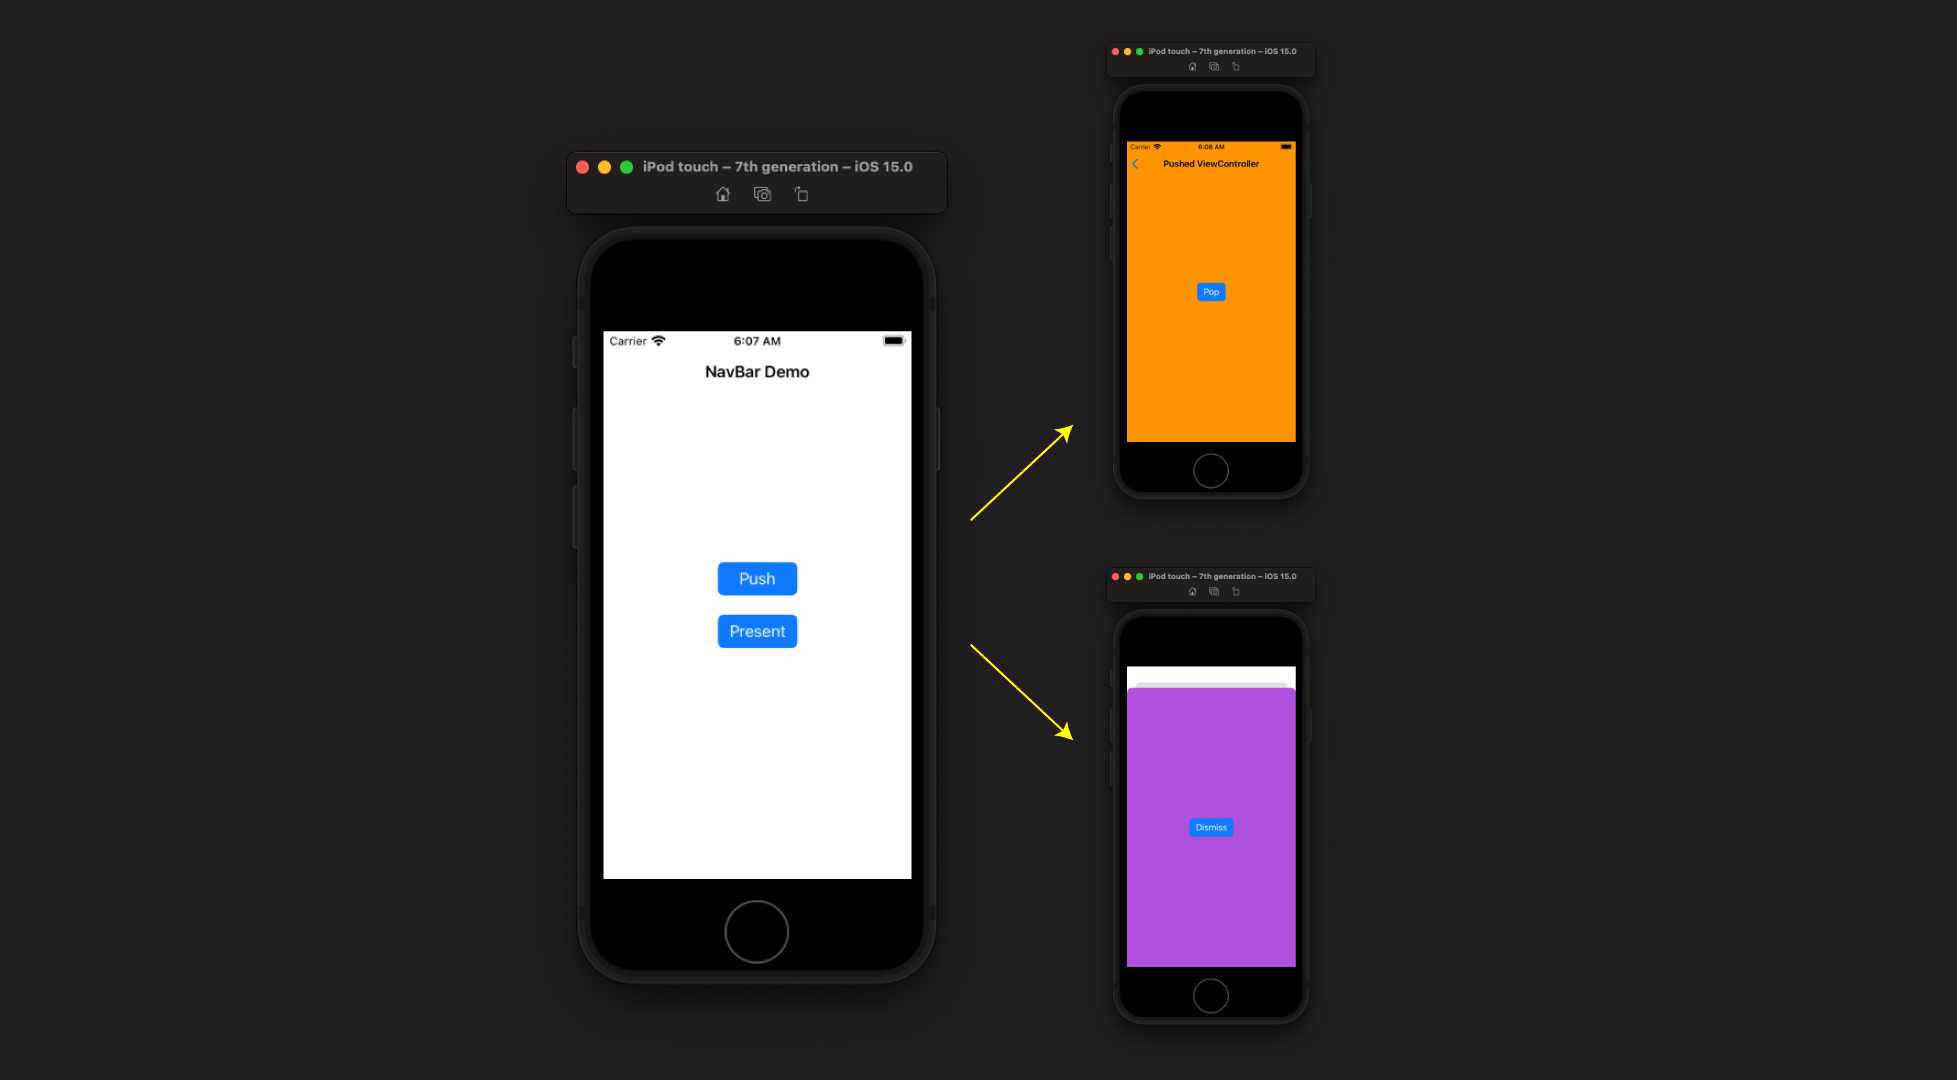
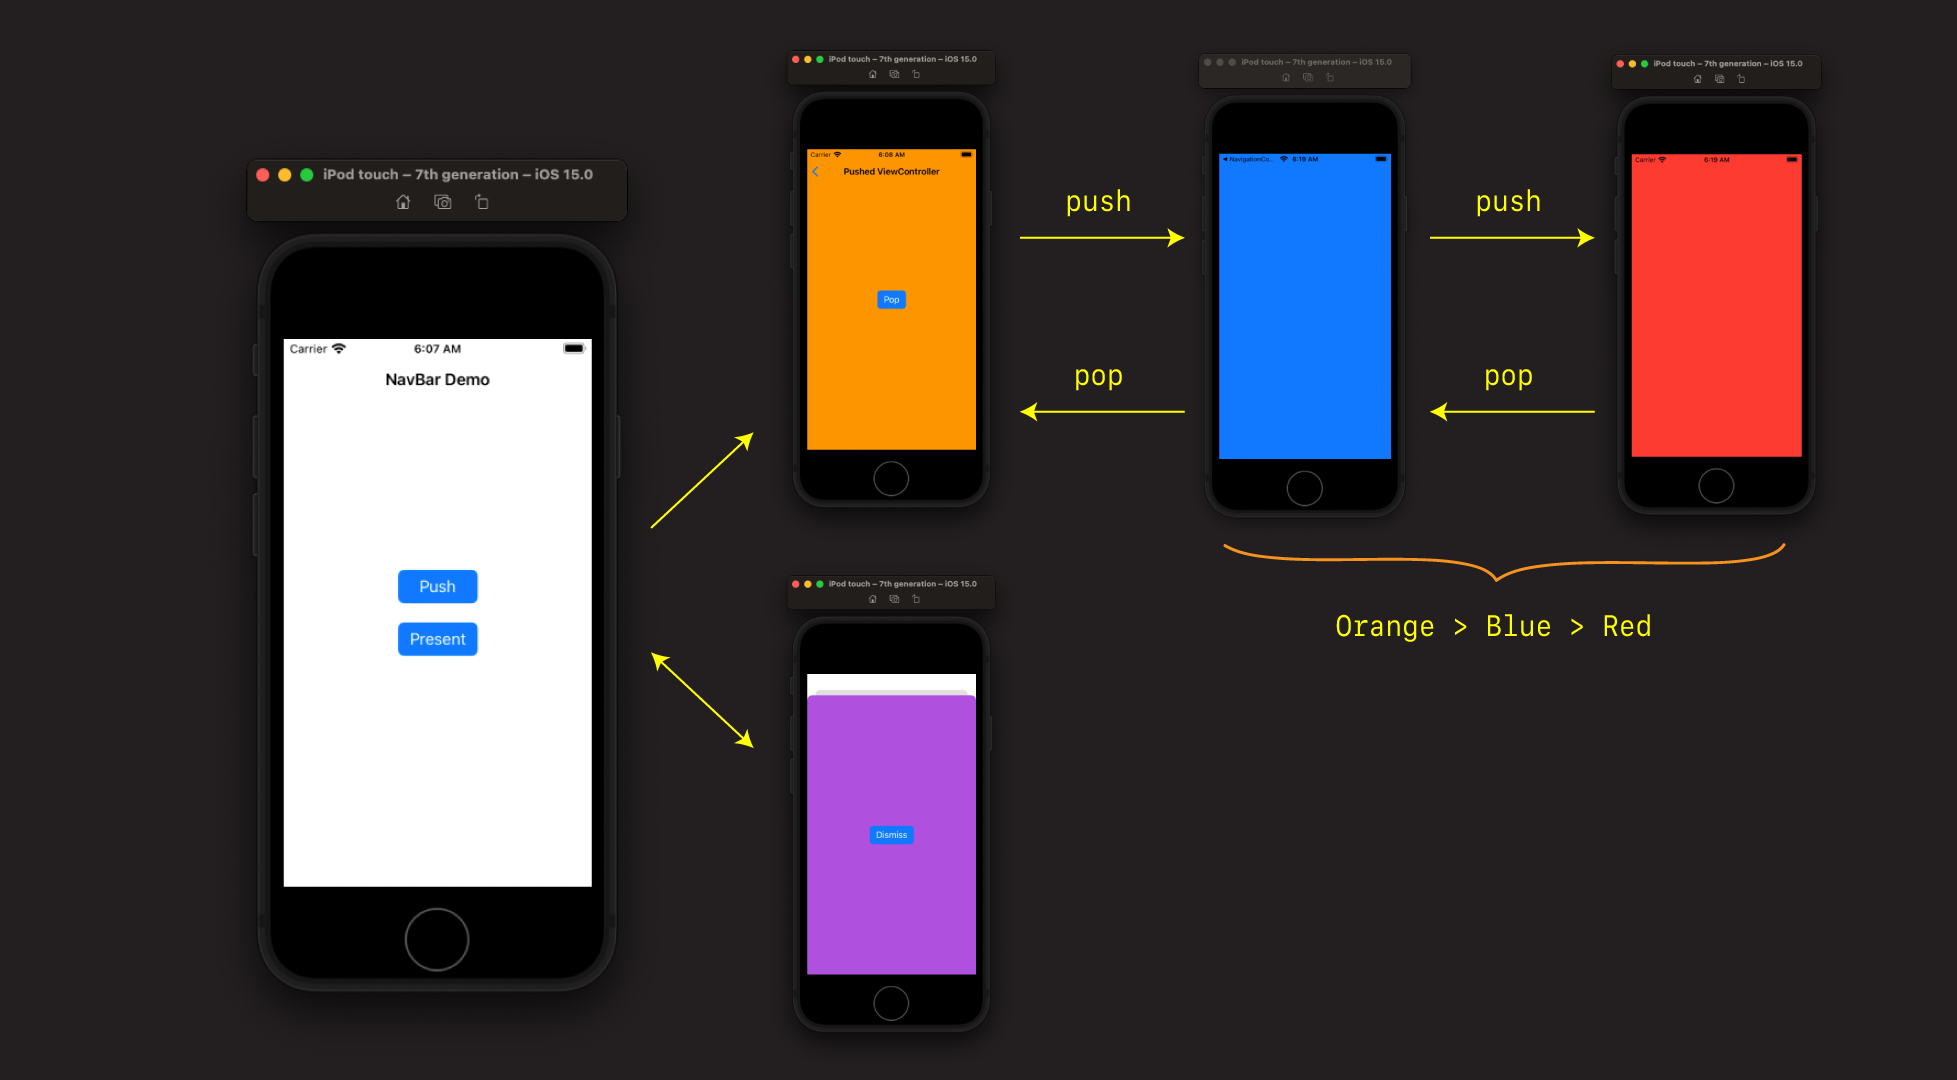
cleanup

diff --git a/Bankey/4-Container-ViewControllers/PageViewDemo/PageViewDemo/ViewController.swift b/Bankey/4-Container-ViewControllers/PageViewDemo/PageViewDemo/ViewController.swift
@@ -45,6 +45,7 @@ class ViewController: UIViewController {
         
         view.backgroundColor = .systemPurple
         
+        // how to add child view controllers
         addChild(pageViewController)
         view.addSubview(pageViewController.view)
         pageViewController.didMove(toParent: self)

diff --git a/Bankey/4-Container-ViewControllers/README.md b/Bankey/4-Container-ViewControllers/README.md
@@ -32,7 +32,7 @@ But before we set that up, lets quickly review each container view controllers t
 
 ## UINavigationController
 
-Demo and explain.
+Explain.
 
 ![](images/nav1.png)
 
@@ -206,7 +206,11 @@ class PresentViewController: UIViewController {
 
 ## UITabBarController
 
-Demo and explain.
+Explain.
+
+![](images/tabbar.png)
+
+### Demo
 
 ![](images/2.png)
 
@@ -267,7 +271,11 @@ class FavoritesViewController: UIViewController {
 
 ## UIPageViewController
 
-Demo and explain. Also point out how this is a `Custom Container`.
+Explain.
+
+![](images/pageview.png)
+
+### Demo
 
 ![](images/3.png)
 
@@ -312,6 +320,7 @@ class ViewController: UIViewController {
         
         view.backgroundColor = .systemPurple
         
+        // how to add child view controllers
         addChild(pageViewController)
         view.addSubview(pageViewController.view)
         pageViewController.didMove(toParent: self)
